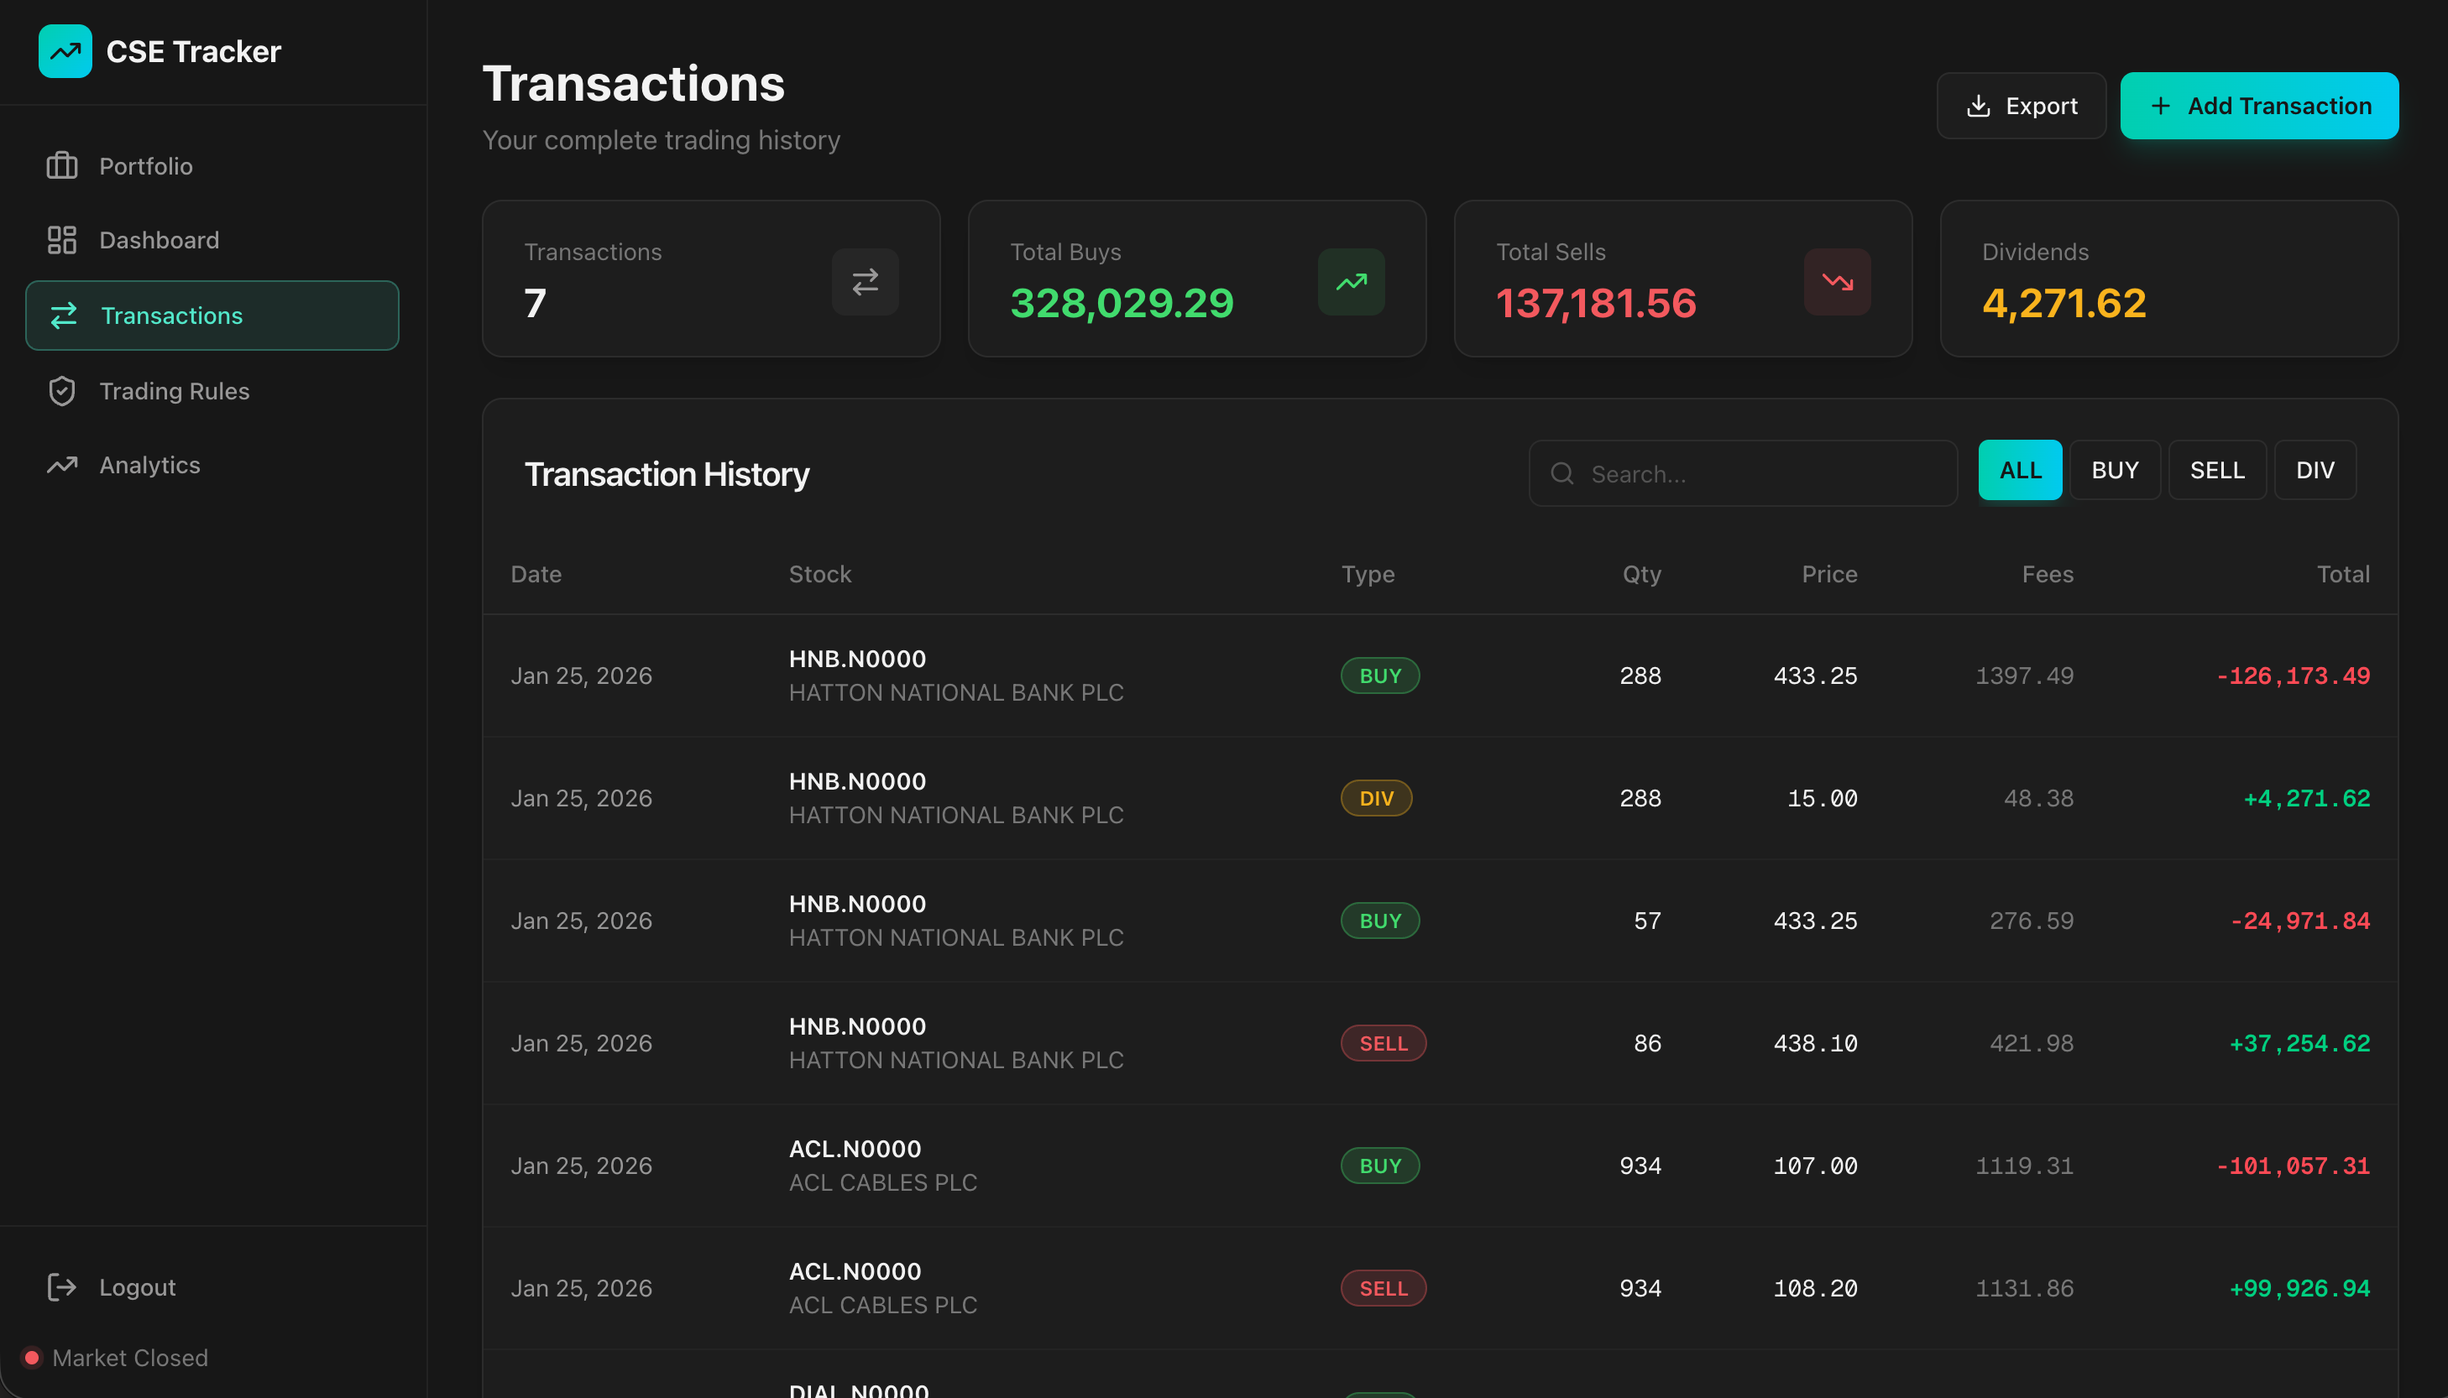
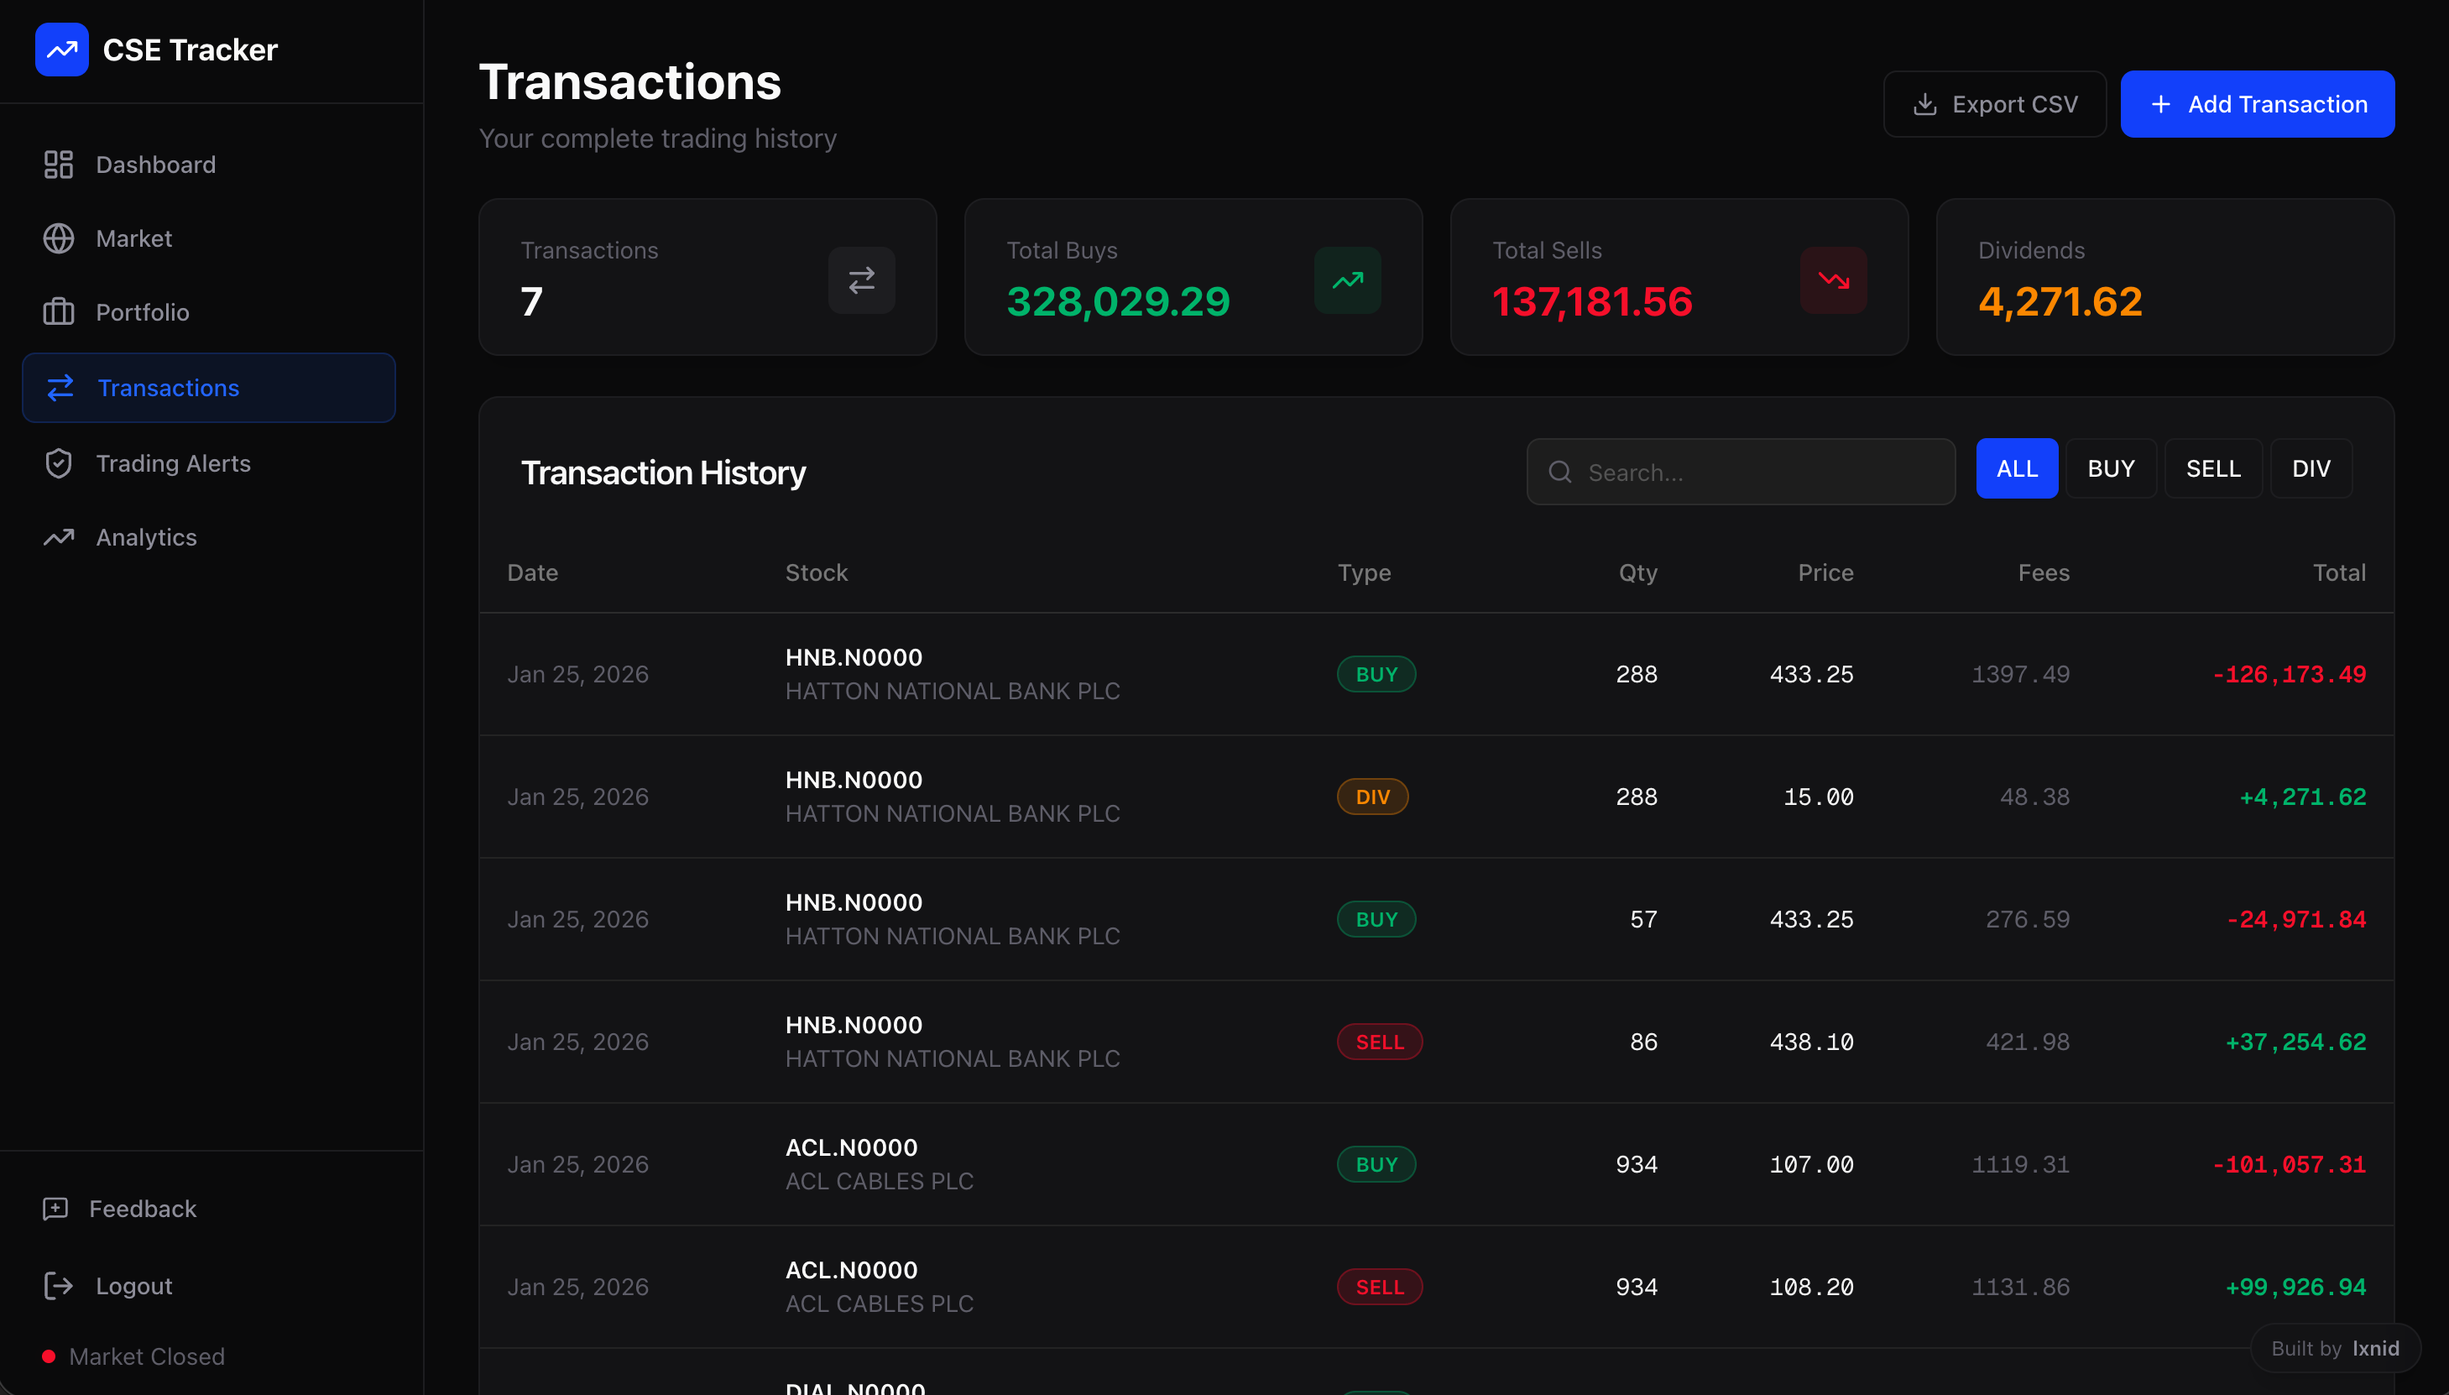
Docs: update documentation
Fix: fix rule violation warning

diff --git a/src/components/rule-compliance.tsx b/src/components/rule-compliance.tsx
@@ -26,10 +26,17 @@ export function RuleComplianceCard({
   violations = [],
   newTotals,
 }: ComplianceCardProps) {
-  const criticalViolations = violations.filter(
+  const allViolations = violations || [];
+  const criticalViolations = allViolations.filter(
     (v) => v.severity === "critical",
   );
-  const warningViolations = violations.filter((v) => v.severity === "warning");
+  const warningViolations = allViolations.filter(
+    (v) => v.severity === "warning",
+  );
+  // Catch any violations that didn't match the standard severities
+  const otherViolations = allViolations.filter(
+    (v) => v.severity !== "critical" && v.severity !== "warning",
+  );
 
   const cashStatusColor =
     newTotals && newTotals.cashPercent >= 20
@@ -109,6 +116,30 @@ export function RuleComplianceCard({
                 </div>
               </div>
             ))}
+
+            {otherViolations.map((v, i) => (
+              <div
+                key={`other-${i}`}
+                className="p-3 rounded-lg bg-zinc-800 border border-zinc-700"
+              >
+                <div className="flex items-start gap-2">
+                  <AlertCircle className="h-4 w-4 text-zinc-400 mt-0.5 shrink-0" />
+                  <div>
+                    <p className="text-sm font-semibold text-zinc-300">
+                      {v.ruleName || "Policy Violation"}
+                    </p>
+                    <p className="text-xs text-zinc-50 mt-1">{v.message}</p>
+                  </div>
+                </div>
+              </div>
+            ))}
+          </div>
+        ) : !isValid ? (
+          <div className="p-3 rounded-lg bg-red-500/10 border border-red-500/30">
+            <div className="flex items-center gap-2 text-red-500 text-sm">
+              <AlertCircle className="h-4 w-4" />
+              <p>Transaction violates rules. Please check constraints.</p>
+            </div>
           </div>
         ) : isValid ? (
           <div className="flex items-center gap-2 text-emerald-500 text-sm p-3 rounded-lg bg-emerald-500/10 border border-emerald-500/20">

diff --git a/src/app/api/auth/logout/route.ts b/src/app/api/auth/logout/route.ts
@@ -3,15 +3,23 @@ import { deleteSession, getSession } from "@/lib/auth";
 import { cleanupGuestData } from "@/lib/demo-limits";
 
 export async function POST() {
-  // Get session before deleting to know the userId
-  const session = await getSession();
+  try {
+    // Get session before deleting to know the userId
+    const session = await getSession();
 
-  // Cleanup guest data if this is a guest user
-  if (session && session.userId.startsWith("guest-")) {
-    await cleanupGuestData(session.userId);
+    // Cleanup guest data if this is a guest user
+    if (session && session.userId.startsWith("guest-")) {
+      try {
+        await cleanupGuestData(session.userId);
+      } catch (cleanupError) {
+        console.error("Failed to cleanup guest data:", cleanupError);
+        // Continue with logout even if cleanup fails
+      }
+    }
+  } catch (error) {
+    console.error("Error retrieving session during logout:", error);
   }
 
-  await deleteSession();
   // Create success response
   const response = NextResponse.json({ success: true });
 

diff --git a/src/app/transactions/page.tsx b/src/app/transactions/page.tsx
@@ -547,7 +547,21 @@ function TransactionModal({
         }),
       });
       const result = await res.json();
-      setSimulationResult(result);
+
+      if (!res.ok) {
+        // If API returns error (like Missing fields which shouldn't happen now, or auth), show it
+        console.error("Simulation failed:", result.error);
+        // Instead of setting simulationResult, maybe set form error?
+        // But simulationResult is what drives the card.
+        // Let's set null result and maybe log?
+        // Or set a specific error result structure?
+        // For now, let's just NOT set result if error, to avoid the confusing UI.
+        setError(result.error || "Simulation failed");
+        setSimulationResult(null);
+      } else {
+        setSimulationResult(result);
+        setError(null);
+      }
     } catch (e) {
       console.error(e);
     } finally {

diff --git a/src/app/api/simulate/route.ts b/src/app/api/simulate/route.ts
@@ -17,7 +17,7 @@ export async function POST(request: Request) {
     const body = await request.json();
     const { stockId, symbol, type, quantity, price, fees } = body;
 
-    if (!stockId || !symbol || !type || !quantity || !price) {
+    if (!symbol || !type || !quantity || !price) {
       return NextResponse.json(
         { error: "Missing required fields" },
         { status: 400 },

diff --git a/README.md b/README.md
@@ -7,13 +7,23 @@ A comprehensive stock portfolio tracking application designed for the Colombo St
 ## 🚀 Features
 
 - **Real-time Market Data**: Live integration with CSE API to fetch ASPI, S&P SL20 indices, and individual stock prices.
-- **Portfolio Management**: Track multiple stock holdings with automatic calculation of average buy price, total invested, and current value.
-- **Transaction History**: Record all Buy, Sell, and Dividend transactions with detailed fee tracking.
-- **Advanced Analytics**: Visual analytics for portfolio performance, sector allocation, and historical trends.
-- **Trading Rules Engine**: A unique compliance system designed to mitigate emotional decision-making. Configure and monitor rules for Cash Buffers (to prevent over-investing), Position Sizing (concentration risk), Stop-Loss/Take-Profit limits, and Trade Frequency (to prevent over-trading), all aggregating into a "Discipline Score" to track your adherence to your own strategy.
-- **Demo & Simulation**: Built-in demo mode and stock price simulation tools for testing strategies.
-- **Responsive Design**: Modern, mobile-first UI built with Tailwind CSS and Shadcn UI.
-- **Feedback System**: Integrated user feedback collection system with automated email notifications powered by [Resend](https://resend.com/).
+- **Portfolio Management**:
+  - Track multiple stock holdings with automatic calculation of average buy price, total invested, and current value.
+  - **Capital Allocation Calculator**: Built-in tool to help calculate position sizes based on percentage of total capital.
+  - **Active vs Inactive**: Filter between current holdings and sold positions.
+- **Advanced Stock Analysis**:
+  - **TradingView Integration**: Professional-grade interactive charts, technical indicators, and financial statements (Income Statement, Balance Sheet, Cash Flow).
+  - **Key Statistics**: Deep dive into company performance with advanced metrics.
+- **Transaction History**:
+  - Record all Buy, Sell, and Dividend transactions with detailed fee tracking.
+  - **CSV Export**: Export your entire transaction history for external analysis.
+- **Trading Rules Engine**: A unique compliance system designed to mitigate emotional decision-making. Configure and monitor rules for Cash Buffers, Position Sizing, Stop-Loss/Take-Profit limits, and Trade Frequency.
+- **Guest Mode & Simulation**: Try the platform without an account using the Guest Mode, featuring a fully functional portfolio simulator.
+- **Security & Performance**:
+  - Enterprise-grade security with rate limiting, IP protection, and IDOR prevention.
+  - Edge-optimized for lightning-fast performance.
+- **Responsive Design**: Modern, mobile-first UI optimized for Desktop, Tablet, and Mobile devices.
+- **Feedback System**: Integrated user feedback collection system with automated email notifications.
 
 ## 🛠 Tech Stack
 
@@ -24,6 +34,7 @@ A comprehensive stock portfolio tracking application designed for the Colombo St
 - **Styling**: [Tailwind CSS v4](https://tailwindcss.com/)
 - **UI Components**: [Shadcn UI](https://ui.shadcn.com/) & [Radix UI](https://www.radix-ui.com/)
 - **Icons**: [Lucide React](https://lucide.dev/)
+- **Charts**: [Recharts](https://recharts.org/) & [TradingView Widgets](https://www.tradingview.com/widget/)
 - **Email**: [Resend](https://resend.com/)
 - **Deployment**: Configured for Cloudflare via OpenNext
 
@@ -77,7 +88,7 @@ Open [http://localhost:3000](http://localhost:3000) with your browser to see the
 
 - `npm run dev`: Starts the development server using Turbopack.
 - `npm run build`: Builds the application for production.
-- `npm run start`: Starts the production server.
+- `npm run build:pages`: Builds the application for Cloudflare Pages (OpenNext).
 - `npm run lint`: Runs ESLint.
 - `npm run db:generate`: Generates Drizzle migrations based on schema changes.
 - `npm run db:push`: Pushes schema changes directly to the database.
@@ -89,10 +100,13 @@ Open [http://localhost:3000](http://localhost:3000) with your browser to see the
 ├── src
 │   ├── app             # Next.js App Router pages and API routes
 │   │   ├── api         # Backend API endpoints (CSE, Auth, Portfolio)
-│   │   └── ...         # Frontend pages (Dashboard, Transactions, etc.)
+│   │   ├── portfolio   # Portfolio & Stock Details pages
+│   │   ├── transactions # Transaction history & management
+│   │   └── market      # Market overview & explorer
 │   ├── components      # Reusable React components
 │   │   ├── ui          # Shadcn UI primitives
-│   │   └── layout      # Layout components like Sidebar
+│   │   ├── layout      # Layout components like Sidebar
+│   │   └── tradingview-* # TradingView widget wrappers
 │   ├── db              # Database configuration and schema
 │   │   ├── schema.ts   # Drizzle ORM schema definitions
 │   │   └── migrations  # SQL migration files
@@ -116,7 +130,8 @@ The application uses a relational schema with the following key entities:
 
 ### External Integration
 
-The `src/lib/cse-api.ts` module handles all communications with the Colombo Stock Exchange API, providing a typed interface for market data retrieval.
+- **CSE API**: The `src/lib/cse-api.ts` module handles all communications with the Colombo Stock Exchange API.
+- **TradingView**: Embedded widgets provide world-class charting and financial data visualization without heavy backend storage requirements.
 
 ### Feedback & Notifications
 
@@ -125,12 +140,29 @@ The feedback system uses a dual-write approach:
 1.  **Persistence**: Feedback is stored in the `feedback` table in Neon/Postgres for record-keeping.
 2.  **Notification**: A serverless function triggers an email via **Resend** to the administrator immediately upon submission.
 
+## 🔒 Security Measures
+
+Based on a recent security audit, the application implements a robust security baseline:
+
+- **Authentication**:
+  - **Rate Limiting**: Strict IP-based rate limiting (5 attempts/15 mins) on login endpoints to prevent brute-force attacks.
+  - **Session Security**: JWT-based sessions stored in `HttpOnly`, `Secure`, `SameSite=Lax` cookies to mitigate XSS and CSRF risks.
+  - **Constant-Time Comparison**: Crypto-safe comparison logic for password verification to prevent timing attacks.
+
+- **Data Protection**:
+  - **SQL Injection**: Complete neutralizing of SQL injection vectors through Drizzle ORM's parameterized queries.
+  - **Data Isolation**: Strict middleware-level authorization limits all database queries to the authenticated user's scope. Guest users are cryptographically isolated from Admin data.
+  - **Input Validation**: Comprehensive runtime validation using `zod` ensures data integrity before it reaches the core logic.
+
+- **Guest Mode Safety**:
+  - **Resource Quotas**: Implementation of strict resource limits (transaction/holding counts) for Guest users to prevent database resource exhaustion.
+
 ## 🌍 Deployment Strategy
 
 This project leverages a modern, edge-first deployment strategy using **Cloudflare Pages** combined with the `opennextjs-cloudflare` adapter.
 
 - **Edge Computing**: Unlike traditional server-based deployments, this app runs on Cloudflare's global edge network. This ensures minimum latency by serving the application logic from the data center closest to the user.
-- **OpenNext**: Bridges the gap between Next.js App Router features and the Cloudflare Workers runtime, allowing us to use modern Next.js 15+ features (like Server Actions and Streaming) in a serverless edge environment.
+- **OpenNext**: Bridges the gap between Next.js App Router features and the Cloudflare Workers runtime, allowing us to use modern Next.js 16+ features in a serverless edge environment.
 - **CI/CD Pipeline**: The build command `npm run build:pages` transforms the standard Next.js build into a worker-compatible artifact.
 
 ## 🔌 Database Architecture (Neon)
@@ -139,4 +171,4 @@ The persistence layer is built on **Neon**, a modern serverless PostgreSQL platf
 
 - **Serverless PostgreSQL**: Neon separates storage from compute. This allows the database to scale to zero when unused (saving costs) and instantly provision compute resources during traffic spikes.
 - **Connection Management**: Since the application runs in a serverless environment (Cloudflare Workers), maintaining persistent database connections is impossible. We use the `@neondatabase/serverless` driver over HTTP/WebSockets to manage ephemeral connections efficiently.
-- **Type Safety**: Integration with **Drizzle ORM** provides end-to-end type safety. The database schema is defined in TypeScript (`src/db/schema.ts`), ensuring that any changes to the data model are instantly reflected in the application code, eliminating a common class of runtime errors.
+- **Type Safety**: Integration with **Drizzle ORM** provides end-to-end type safety. The database schema is defined in TypeScript (`src/db/schema.ts`), ensuring that any changes to the data model are instantly reflected in the application code.
